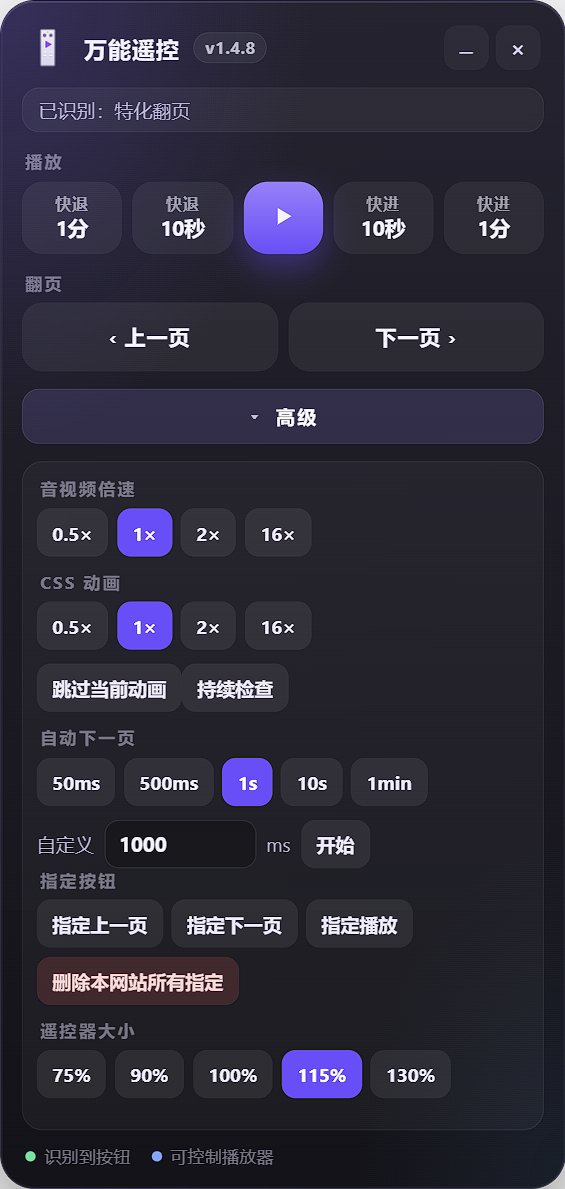
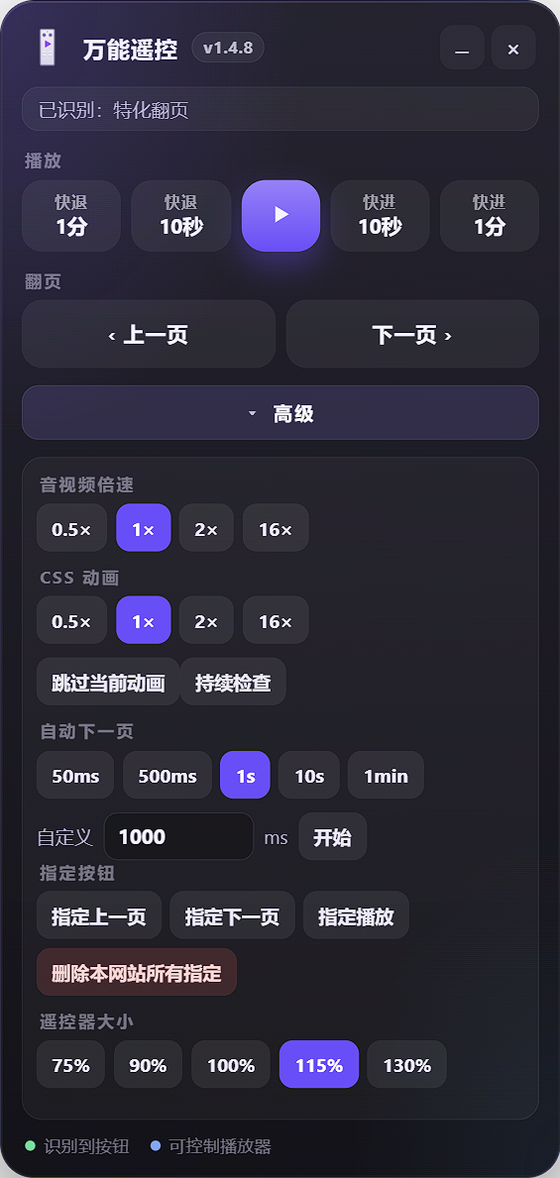
Rewrite README, shrink preview, keep minimized after drag

Changed region(s): [[0.0911, 0.764, 0.1518, 0.7946], [0.6679, 0.764, 0.6982, 0.7946], [0.2429, 0.0306, 0.2732, 0.0611]]

diff --git a/content/content.js b/content/content.js
@@ -29,7 +29,7 @@ function extDead(err) {
 var UR = {
   HOST_ID: "universal-remote-host",
   CONFIRM_MS: 16000,
-  VERSION: "1.4.9",
+  VERSION: "1.5.0",
 };
 try {
   UR.VERSION = chrome.runtime.getManifest().version || UR.VERSION;
@@ -1898,6 +1898,7 @@ chrome.runtime.onMessage.addListener((msg, _sender, sendResponse) => {
   let draggingOverlay = false;
   let dragW = 0;
   let dragH = 0;
+  let suppressMinClick = false;
   let lastKnownPaused = true;
   let actionLock = false;
   let toastConsuming = false;
@@ -2288,7 +2289,13 @@ chrome.runtime.onMessage.addListener((msg, _sender, sendResponse) => {
 
   function bind() {
     root.addEventListener("click", onClick);
-    shadow.querySelector(".ur-min").addEventListener("click", () => {
+    shadow.querySelector(".ur-min").addEventListener("click", (event) => {
+      if (suppressMinClick) {
+        suppressMinClick = false;
+        event.preventDefault();
+        event.stopPropagation();
+        return;
+      }
       root.classList.remove("is-min");
       saveState();
       consumePendingToast();
@@ -2710,6 +2717,7 @@ chrome.runtime.onMessage.addListener((msg, _sender, sendResponse) => {
       if (event.button !== 0) return;
       const innerBtn = event.target.closest && event.target.closest("button");
       if (innerBtn && innerBtn !== handle) return;
+      suppressMinClick = false;
       draggingOverlay = true;
       const rect = visualRect();
       sx = event.clientX;
@@ -2753,6 +2761,12 @@ chrome.runtime.onMessage.addListener((msg, _sender, sendResponse) => {
       root.style.left = x + "px";
       root.style.top = y + "px";
       root.classList.remove("is-drag");
+      if (handle.classList.contains("ur-min") && Math.hypot(x - sl, y - st) > 6) {
+        suppressMinClick = true;
+        window.setTimeout(() => {
+          suppressMinClick = false;
+        }, 400);
+      }
       saveState();
     };
 

diff --git a/README.md b/README.md
@@ -2,33 +2,25 @@
 
 [![License: MIT](https://img.shields.io/badge/License-MIT-yellow.svg)](./LICENSE)
 
-Edge / Chrome（Chromium）浏览器扩展：在网页上提供可拖拽的浮层遥控器，用于音视频快进快退、播放暂停，以及上一页 / 下一页。当前版本 **1.4.9**。本扩展按 Manifest V3 编写，在 **Google Chrome 与 Microsoft Edge 上同等支持**（未上架商店，均用「加载未打包的扩展」安装）。
+网页万能遥控器：支持 Edge / Chrome 的浏览器扩展，实现音视频、动画等快进暂停，各类型翻页以及自动化脚本，遵循模拟原有交互优先原则，并对某些场景进行了特化。当前版本 **1.5.0**。
 
-> Universal Webpage Remote: a browser extension for Microsoft Edge and Chrome. It can seek and pause audio, video, and animations, handle various kinds of in-page navigation, and run automation. It prefers simulating the site's own interactions first, and includes specialized handling for certain scenarios.
-
-优先模拟点击页面上已有的按钮；找不到时**不会**因为连点遥控而强制跳过。只有提示条里的「强制执行」才会走强制路径。
+Webpage Universal Remote: a browser extension for Microsoft Edge and Chrome. It can seek and pause audio, video, and animations, handle various kinds of in-page navigation, and run automation. It prefers simulating the site's own interactions first, and includes specialized handling for certain scenarios.
 
 > [!WARNING]
-> **使用强制跳过可能存在风险，请谨慎使用。**
+> **使用某些功能可能存在风险，请谨慎使用。**
 >
-> 「强制执行」**不会**点击页面原来的按钮，而是直接改页面结构或状态。这会绕过网站自己的步骤，例如校验、计数、接口回调、解锁条件等，可能导致页面显示与后台数据不一致，或其他异常。
+> 本扩展会操作页面按钮、播放器和动画时间轴，不保证在所有网站上都安全、正确。站点若校验进度、计时、必做步骤或交互动画，部分功能可能导致页面状态与后台数据不一致，或其他异常。
 >
-> 日常请让遥控去点页面原按钮。强制功能只建议在你明确知道后果时使用。作者与贡献者不对误用强制执行造成的后果负责。
+> 请优先让遥控去点页面原来的按钮。强制翻页、过快的自动下一页等尤其需要自行判断。作者与贡献者不对误用造成的后果负责。
 
 ## 功能
 
-- 快退 1 分钟 / 10 秒、播放暂停、快进 10 秒 / 1 分钟
-- 上一页、下一页（优先点站内真实按钮；也识别「上一封 / 下一封」等）
-- 绿点：识别到页面按钮；蓝点：可直接控制 HTML5 播放器
-- 点对了也会提示：可「尝试其他可能按键」或「改为指定某按键」
-- 高级：倍速（0.5 / 1 / 2 / 16）与自动下一页（间隔可调）
-- 可拖拽、最小化、隐藏；工具栏图标可重新显示
-- 报错提示可复制
+- 优先模拟页面原有交互，而不是绕过站点逻辑  
+- **CSS / Web Animations 加速与跳过**（含持续检查，新出现的动画也会套用）  
+- 音视频快进、暂停、倍速；站内上一页 / 下一页  
+- 自动下一页；对课件等场景有特化处理  
 
-## 场景特化
-
-通用识别覆盖不了的页面，会走单独的适配。**目前已完成课件类页面**，以后还可能增加其它场景。  
-识别条件、点击方式与限制见 [特化说明.md](./特化说明.md)，其它文档不再重复那些细节。
+细节与课件适配见 [特化说明.md](./特化说明.md)。
 
 ## 安装（未上架，加载未打包扩展）
 
@@ -40,46 +32,46 @@ Chrome 与 Edge 步骤相同，只是扩展页地址不同。
 4. 「加载解压缩的扩展」，选中本仓库根目录  
 5. 打开扩展**详细信息**，将「网站访问」设为 **在所有网站上**（Chrome：Site access → On all sites）  
    - 若只允许「单击时」，跨域 iframe 里的内容无法操作  
-6. 打开任意网页，左下角应出现「万能遥控」；版本号以浮层标题为准  
+6. 打开任意网页，左下角应出现「万能遥控」  
 
 用 `file://` 打开 `demo.html` 时，请在扩展详情中允许访问文件网址。  
 Chrome 无痕 / Edge InPrivate 需在详情里单独勾选允许。不支持 Firefox、Safari。更细的对照见 [安装说明.txt](./安装说明.txt)。
 
 ## 使用
 
-- 拖标题栏移动；`–` 最小化，`×` 隐藏  
-- 隐藏后点击浏览器工具栏里的扩展图标可再显示  
-- 下一页：尽量点页面真实按钮，走网站原逻辑  
-- 点播放 / 翻页后立刻显示「正在尝试」，完成后再换成结果  
-- 操作成功但点错了：提示里选「尝试其他可能按键」，或「改为指定某按键」点一次正确按钮并记住（指定后若网页跳转，新页面仍会弹出结果，可再次改指定）  
-- 高级里也可随时「指定上一页 / 下一页 / 播放」，或「删除本网站所有指定」  
-- 不能指定遥控器自己的按钮；指定后会提示成功或失败
-- 找不到按钮时，提示里还可选「强制执行（有风险）」  
-- 「高级」顺序：音视频倍速 → CSS 动画 → 自动下一页 → 指定按钮 → 遥控器大小  
+面板上能看懂的操作不再重复。下面这些容易忽略：
+
+- 隐藏后，点浏览器工具栏里的扩展图标可再显示  
+- 「网站访问」必须是**在所有网站上**，跨域 iframe（含部分课件）才能控到  
+- 点错了：提示里可「尝试其他可能按键」，或「改为指定某按键」点一次页面上的正确按钮；不能指定遥控器自己  
+- 「强制执行」只会从提示条的红按钮触发，连点「下一页」不会强制  
+- 自动下一页 / CSS 持续检查开启时，顶部信息栏会变黄并有扫光，便于确认还在跑  
 
 ## 操作安全性评估
 
-星级越高越相对安全，**不是**「可以随便用」。站点若自行校验进度或必做步骤，仍可能出错。
+星级越高，相对越不容易把站点自己的校验弄乱。**不是**「可以随便用」。同一类操作在不同网站上的后果差很多，下表只是经验判断。
 
 | 操作 | 安全星级 | 说明 |
 |---|---|---|
-| 音视频快进 / 倍速 | ★★☆☆☆ | 若站点有计时检查，可能导致错误 |
-| 上一页 / 下一页 | ★★★☆☆ | 可能跳过必做步骤导致错误，但可以自行核对 |
-| 强制翻页 | ★☆☆☆☆ | 极有可能造成错误 |
-| 自动下一页 | ★★☆☆☆ | 过快可能跳过必做步骤，且来不及检查 |
-| CSS 动画倍速 / 跳过 | ★★★★☆ | 后台几乎不会检查此类动画，一般不易出错 |
+| 音视频快进 / 倍速 | ★★☆☆☆ | 直接改播放器进度或 `playbackRate`。很多学习站、会员站会在后台核对「是否真的看到了某一秒」。快进或 16 倍速后，页面看起来正常，进度、心跳或防挂机检测可能对不上，轻则不计完成，重则被判定异常。 |
+| 上一页 / 下一页 | ★★★☆☆ | 默认去点页面上已有的翻页 / 下一集按钮，走站点原来的点击逻辑，比改 DOM 安全。但仍可能点到「下一篇推荐」而不是「下一节」，或在未完成必看/必答时被允许翻页。画面变了可以自己看一眼再决定要不要改指定。 |
+| 强制翻页 | ★☆☆☆☆ | **不会**点击原按钮，只改页面结构或当前页标记。校验、计数、接口回调、解锁条件都会被跳过，后台很容易和画面不一致。只建议你明确知道后果时使用（例如本地测试）。 |
+| 自动下一页 | ★★☆☆☆ | 按设定间隔反复执行普通「下一页」，不会走强制。间隔很短时，必看视频、题目、确认框还没来得及出现就被翻走，人也来不及核对点没点错。间隔请尽量留出检查时间。 |
+| CSS 动画倍速 / 跳过 | ★★★★☆ | 只动 CSS / Web Animations 的时间轴，不管视频和脚本逐帧。多数站点不会在后台核对这类过场动画是否播完，一般不易出错。若某页靠动画结束才解锁按钮或提交状态，跳过仍可能提前进入下一步。无限循环的 loading 默认不会被「跳过」掐掉。 |
 
 ## 权限说明
 
-- `<all_urls>`：在网页上显示遥控并操作按钮 / 播放器  
-- `storage`：记住位置与是否隐藏  
+- `<all_urls>`：在网页上显示遥控并操作按钮 / 播放器 / 动画  
+- `storage`：记住位置、大小与是否隐藏  
 - `webNavigation` / `scripting`：在子 frame 中查找并执行操作  
 
-不会上传你的账号密码。强制跳过若触发了网站自己的接口，请求仍由**该网站**发出，请自行遵守网站使用条款。
+不会上传你的账号密码。遥控触发的请求仍由**该网站**发出，请自行遵守网站使用条款。
 
 ## 预览
 
-![万能遥控面板](docs/preview.png)
+<p align="left">
+  <img src="docs/preview.png" width="280" alt="万能遥控面板">
+</p>
 
 ## 开发与维护
 
@@ -93,4 +85,4 @@ Chrome 无痕 / Edge InPrivate 需在详情里单独勾选允许。不支持 Fir
 
 ## 免责声明
 
-本项目按「现状」提供，用于个人学习与辅助浏览。使用本扩展即表示你理解：**使用强制跳过可能存在风险，请谨慎使用**；强制执行可能造成页面状态或数据异常，风险自负。请勿用于破坏服务条款或干扰他人系统。
+本项目按「现状」提供，用于个人学习与辅助浏览。使用即表示你理解：**部分功能可能存在风险**，不保证进度、数据或页面状态正确，风险自负。请勿用于破坏服务条款或干扰他人系统。
